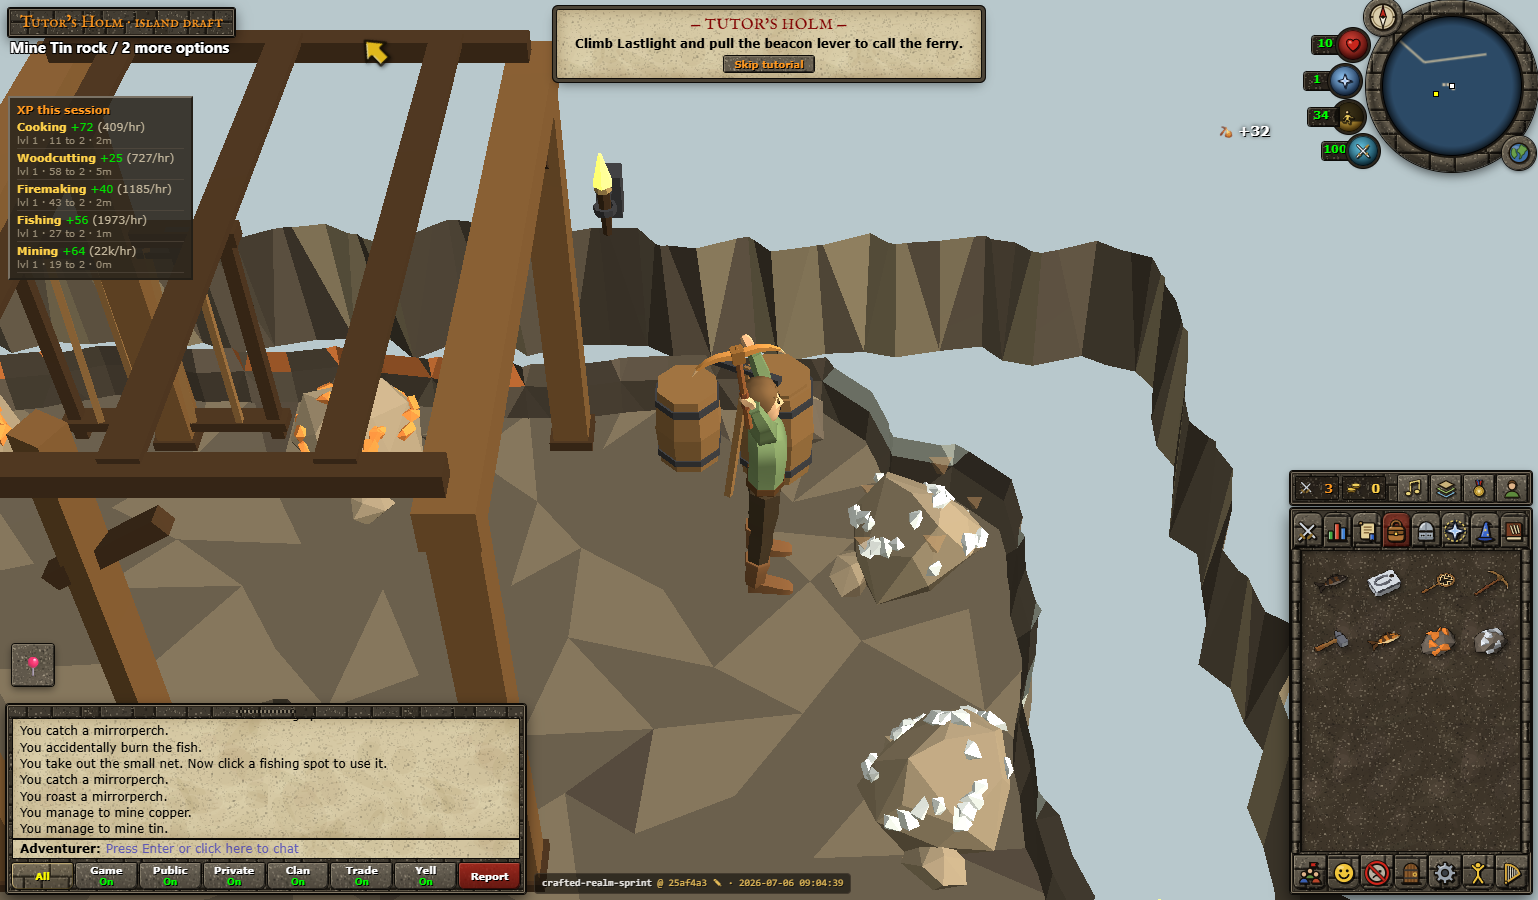
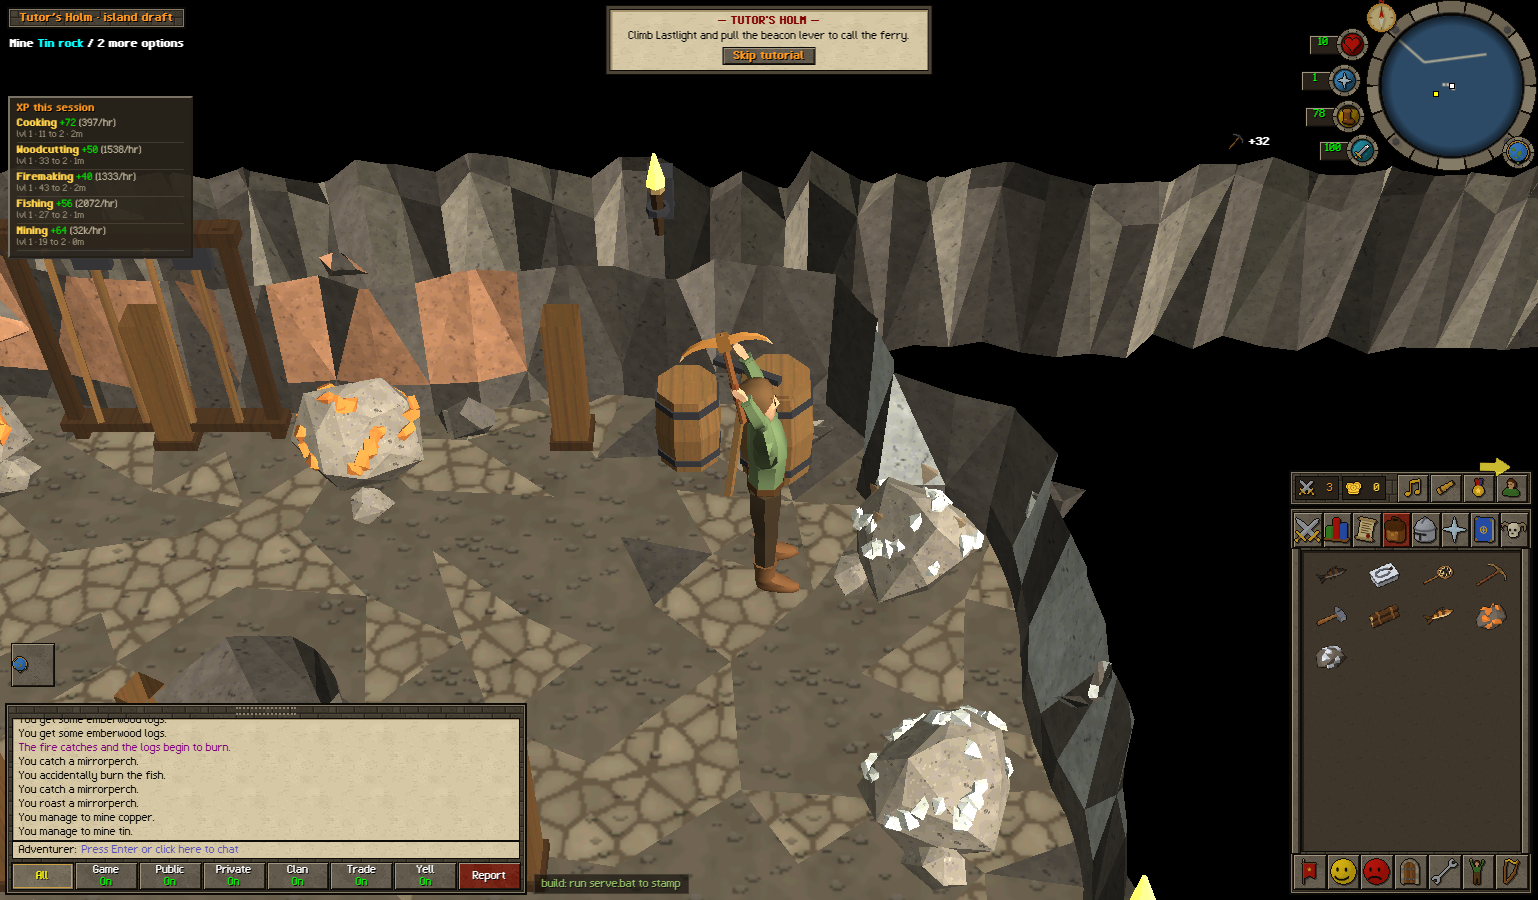
Holm v2 land, phase 6 (part 2): the ore workings' east drift is playable - the island cutaway gives a building's shell parts their own materials (the cave's rock cap shared its material with the rubble and stayed drawn over the drift), the cavern clips its timber sets too (lift 1.2), and a click who

diff --git a/tools/qa_holm_island_playthrough.js b/tools/qa_holm_island_playthrough.js
@@ -46,6 +46,13 @@ async function toBeach(p){const r=await p.evaluate(()=>HolmFishing.fireRing());r
 async function toFire(p){const f=await p.evaluate(()=>{const o=scene.getObjectByName('island-campfire');return o?[o.position.x,o.position.z]:null});if(!f)return toBeach(p);
  for(const [dx,dz] of [[1,0],[-1,0],[0,-1],[0,1]]){await L.walkPoint(p,f[0]+dx,f[1]+dz,[]);const q=await pos(p);if(Math.hypot(q[0]-f[0],q[2]-f[1])>.9)return}}
 const spot=p=>p.evaluate(()=>{const s=HolmFishing.nearestSpot(player.position.x,player.position.z);return s?s.name:null});
+// still down in the ore workings (the guide arrow points at the drift ladder): climb it into the Warden's Keep hall
+async function upDrift(p){for(let k=0;k<3&&await p.evaluate(()=>player.position.y<-20);k++){await walkTo(p,'cavern','exit',false,[]);await clickService(p,'Climb-up drift ladder','exit');await waitFor(p,()=>player.position.y>0,null,60000)}}
+// net a fish like a player: when the spot moves on ("The fish have moved on.") or the net comes up empty for a while,
+// click the nearest live ripple again
+async function netFish(p){for(let k=0;k<6&&!await p.evaluate(()=>Player.count('raw_perch')>0);k++){
+  // a ripple takes a plain click while a net is in the pack (the menu's "Net"), or the net's "Use" on it
+  await clickNamed(p,await spot(p));await waitFor(p,()=>Player.count('raw_perch')>0,null,45000)}}
 // ---- the lessons, in the curriculum's order ----
 const DO={
  async study_route(p){await clickKind(p,'arrival_door',['arrivalDoor','arrival']);await waitFor(p,()=>{const r=HolmArrivalQA.saveRecord();return r&&r.doors&&r.doors.arrival},null,40000);
@@ -58,9 +65,9 @@ const DO={
   await talk(p,'wenna');for(const t of ['oak-1','oak-2','oak-3']){if(await p.evaluate(()=>Player.count('logs')>0))break;const c=await clickNamed(p,'island-lesson-survival-'+t);if(!c.error)await waitFor(p,()=>Player.count('logs')>0,null,90000)}},
  // v2 land (2026-09-27): the fire goes on the Fire Beach down in Minnow Hollow, the fish come from the live ripples on the pond
  async light_fire(p){await toBeach(p);await clickInventory(p,'tinderbox');await clickInventory(p,'logs');await waitFor(p,()=>!!scene.getObjectByName('island-campfire'),null,20000);await sleep(1500)},
- async catch_fish(p){await clickInventory(p,'fishing_net');await clickNamed(p,await spot(p));await waitFor(p,()=>Player.count('raw_perch')>0,null,150000)},
+ async catch_fish(p){await netFish(p)},
  async cook_fish(p){for(let k=0;k<8&&await lesson(p)==='cook_fish';k++){
-   if(!await p.evaluate(()=>Player.count('raw_perch')>0)){await clickInventory(p,'fishing_net');await clickNamed(p,await spot(p));await waitFor(p,()=>Player.count('raw_perch')>0,null,150000)}
+   if(!await p.evaluate(()=>Player.count('raw_perch')>0))await netFish(p);
    await toFire(p);
    if(!await p.evaluate(()=>!!scene.getObjectByName('island-campfire'))){for(const t of ['oak-2','oak-3','oak-1']){if(await p.evaluate(()=>Player.count('logs')>0))break;await clickNamed(p,'island-lesson-survival-'+t);await waitFor(p,()=>Player.count('logs')>0,null,90000)}
     await toBeach(p);await clickInventory(p,'tinderbox');await clickInventory(p,'logs');await waitFor(p,()=>!!scene.getObjectByName('island-campfire'),null,20000);await sleep(1500)}
@@ -76,8 +83,9 @@ const DO={
  async smelt_bronze(p){await clickNamed(p,'island-lesson-furnace');await clickButtonText(p,'#dialogue-modal button','Smelt a Bronze bar.');await waitFor(p,()=>Player.count('bronze_bar')>0,null,30000)},
  async forge_dagger(p){await clickNamed(p,'island-lesson-anvil');await clickButtonText(p,'#smith-grid-overlay div[title]','Bronze dagger');await waitFor(p,()=>Player.count('bronze_dagger')>0,null,30000);
   // v2 land: out by the east drift, its ladder coming up through the trapdoor in the Warden's Keep hall
-  await clickService(p,'Climb-up drift ladder','exit');await waitFor(p,()=>player.position.y>0,null,90000)},
- async melee_trial(p){await walkTo(p,'keep','court',true,[]);await talk(p,'corrick');await wield(p,'bronze_dagger');await fight(p,'keep-court','melee_trial')},
+  // the ladder is roped off until the dagger lesson is credited: wait for the game to move on first, as a player reads the chat
+  await waitLesson(p,'forge_dagger',30000);await upDrift(p)},
+ async melee_trial(p){await upDrift(p);await walkTo(p,'keep','court',true,[]);await talk(p,'corrick');await wield(p,'bronze_dagger');await fight(p,'keep-court','melee_trial')},
  async ranged_trial(p){await waitFor(p,()=>Player.count('worn_bow')>0||Player.equip.weapon==='worn_bow',null,15000);await wield(p,'worn_bow');await fight(p,'keep-court','ranged_trial')},
  async open_bank(p){await walkTo(p,'bank','entrance',true,[]);await talk(p,'maud');await clickService(p,'Use bank counter','counter');await waitLesson(p,'open_bank',60000);await p.evaluate(()=>{try{UI.closeModal('bank-modal')}catch(e){}})},
  async magic_trial(p){await walkTo(p,'mage','entrance',true,[]);await talk(p,'ilse');await waitFor(p,()=>Player.count('air_rune')>0,null,15000);await closeDialogue(p);await spellbook(p,'wind_strike');

diff --git a/src/holm_island_extras.js b/src/holm_island_extras.js
@@ -62,6 +62,11 @@ var HolmIslandExtras=(function(){
   lodge:{roof:/^Lodge_(Roof|Chimney)/,upper:/^Lodge_Upper(?!.*Stair)/,clip:/^Lodge_(GroundShell|UpperShell|Glazing)/,lift:.5}};
  // M4.4 buildings follow the brief's naming contract: <Prefix>_Roof / _Upper / _Shell / _UpperShell / _Glazing
  ['Survival','Quarry','Bank','Mage','Haven','Lastlight','Cavern','Mill'].forEach(function(p){CUTAWAY[p.toLowerCase()]={roof:new RegExp('^'+p+'_Roof'),upper:new RegExp('^'+p+'_Upper'),clip:new RegExp('^'+p+'_(Shell|UpperShell|Glazing)'),lift:.5}});
+ // v2 land phase 6: the ore workings' east drift is a 2-wide propped corridor under the rock cap: inside the cavern its
+ // timber sets and lagging are clipped too, a little higher (the walls stand 1.2 over the floor), so the drift reads from
+ // the game camera as the cave does
+ CUTAWAY.cavern={roof:/^Cavern_Roof/,upper:/^Cavern_Upper/,clip:/^Cavern_(Shell|UpperShell|Glazing|Timber)/,lift:1.2};
+ function partName(n,root){for(var q=n;q&&q!==root;q=q.parent)if(/^(Keep|Kitchen|Lodge|Survival|Quarry|Bank|Mage|Haven|Lastlight|Cavern|Mill)_/.test(q.name))return q.name;return ''}
  function need(ok,msg){if(!ok)throw Error('[HolmIslandExtras] '+msg)}
  function HolmV2LandUrl(p){return typeof HolmV2Land!=='undefined'?HolmV2Land.url(p):(typeof HolmIsland!=='undefined'?HolmIsland.asset('/'+p):'/'+p)}
  // the old-school look's textured candidates (trees, prop pack, bridges, buildings), when served
@@ -116,7 +121,9 @@ var HolmIslandExtras=(function(){
  async function load(o){
   var T=o.THREE,scene=o.scene,W=o.WORLD,sample=o.sample,data=o.data,roots=[],mixers=[],grounds=[];CELLS=typeof HolmInstancedCells!=='undefined';
   function prepare(root){root.traverse(function(n){if(!n.isMesh)return;n.castShadow=true;n.receiveShadow=true;linearMaps(T,n);
-   n.userData.islandGround=true;W.grounds.push(n);W.clickables.push(n);grounds.push(n)})}
+   n.userData.islandGround=true;W.grounds.push(n);W.clickables.push(n);grounds.push(n);
+   // floors, decks, treads and landings take a click as a walk order (game4_ui pick: upward faces only)
+   var pn=partName(n,root);if(/Floor|Deck|Tread|Landing|Stair|Step|Boards|Flags|Pier|Walk|Plank/i.test(pn||n.name)&&!/Roof|Shell|Wall/i.test(pn||n.name))n.userData.islandFloor=true})}
   function place(root,x,y,z,yaw){var g=new T.Group();g.position.set(x,y,z);g.rotation.y=yaw||0;g.add(root);scene.add(g);roots.push(g);prepare(root);return g}
   // ---- buildings, each bound to the graph measured from its exact bytes ----
   var models={},services=[],clipPlane=new T.Plane(new T.Vector3(0,-1,0),0);
@@ -137,6 +144,11 @@ var HolmIslandExtras=(function(){
      if(/DoorOpenClose$/.test(c.name)){a.setLoop(T.LoopOnce,1);a.clampWhenFinished=true;a.play();a.time=c.duration;a.paused=true}
      else if(!/^Door/.test(c.name))a.play()});mx.update(0);mixers.push(mx)}
    gltf.scene.parent.updateMatrixWorld(true);   // placed group first, so service boxes are in world space
+   // the cutaway clips a building's shell parts by material: a material the shell shares with parts that stay whole (the
+   // cave's rock with its rubble, a textured wall with a trim) would be clipped or not by whichever part came last, so the
+   // shell parts get their own copies (v2 land phase 6: the cavern's rock cap stayed drawn over the east drift)
+   if(CUTAWAY[b.id]){var own=new Map();gltf.scene.traverse(function(n){if(!n.isMesh||!CUTAWAY[b.id].clip.test(partName(n,gltf.scene)))return;
+    var cp=function(m){if(!m)return m;if(!own.has(m))own.set(m,m.clone());return own.get(m)};n.material=Array.isArray(n.material)?n.material.map(cp):cp(n.material)})}
    (SERVICES[b.id]||[]).forEach(function(s){
     var local=s.node||(b.graph.targets.filter(function(t){return t.id===s.target})[0]||{}).nodeId;need(local,b.id+' service '+s.label+' has no stance');
     var info={building:b.id,target:s.target,node:'b:'+b.id+':'+local,call:s.call,label:s.label,option:s.option,name:s.name,examine:s.examine,say:s.say},box=new T.Box3();   // option/name/examine: its old-school menu row (osrs_menu_world.js)
@@ -203,7 +215,7 @@ var HolmIslandExtras=(function(){
    cutFor=inside;if(!inside||!CUTAWAY[inside])return;
    var r=CUTAWAY[inside],M=models[inside],localY=pose.y-M.placement.y;clipPlane.constant=pose.y+r.lift;
    if(typeof renderer!=='undefined'&&renderer)renderer.localClippingEnabled=true;
-   M.scene.traverse(function(n){if(!n.isMesh)return;var name='';for(var q=n;q&&q!==M.scene;q=q.parent)if(/^(Keep|Kitchen|Lodge|Survival|Quarry|Bank|Mage|Haven|Lastlight|Cavern|Mill)_/.test(q.name)){name=q.name;break}
+   M.scene.traverse(function(n){if(!n.isMesh)return;var name=partName(n,M.scene);
     n.visible=!r.roof.test(name);
     if(r.upper.test(name)){if(!n.geometry.boundingBox)n.geometry.computeBoundingBox();n.visible=n.geometry.boundingBox.min.y<=localY+.45}
     [].concat(n.material).forEach(function(mm){if(mm)mm.clippingPlanes=r.clip.test(name)?[clipPlane]:[]})});

diff --git a/index.html b/index.html
@@ -939,7 +939,7 @@
 <script src="src/audio_hearthside.js?v=1"></script>
 <script src="src/audio_minstrel.js?v=1"></script>
 <script src="src/osrs_menu.js?v=2"></script><!-- the one old-school menu model (right click, hover text, use-mode) -->
-<script src="src/game4_ui.js?v=he7b82353"></script>
+<script src="src/game4_ui.js?v=he1393bab"></script>
 <script src="src/osrs_menu_world.js?v=2"></script>
 <script src="src/ui_osrs.js?v=1"></script>
 <script src="src/ui_prayer_magic.js?v=4"></script>
@@ -1052,7 +1052,7 @@
 <script src="src/holm_arrival_trail.js?v=2wf"></script>
 <script src="src/holm_arrival_water.js?v=hdeca526f"></script>
 <script src="src/holm_arrival_porch_target.js?v=1"></script>
-<script src="src/holm_v2_land.js?v=hd6e4751b"></script><script src="src/holm_island_paths_data.js?v=hfcbfbdc7"></script><script src="src/holm_island_nav.js?v=hfc1a6a45"></script><script src="src/holm_island_lessons.js?v=8s58os1"></script><script src="src/holm_fishing.js?v=hc03f7dbf"></script><script src="src/holm_instanced_cells.js?v=hfba1ea67"></script><script src="src/holm_island_props.js?v=h7019d720"></script><script src="src/holm_mill.js?v=he37fbe70"></script><script src="src/holm_island_gates.js?v=3os2"></script><script src="src/holm_island_trials.js?v=3cfx1cb2"></script><script src="src/holm_proving_ground.js?v=1b"></script><script src="src/holm_island_tutors.js?v=hae87a40d"></script><script src="src/holm_island_talk.js?v=h68340add"></script><script src="src/holm_kit.js?v=1k8k9m_eq2"></script><script src="src/holm_island_player.js?v=5k8k9m_cfx1c31em1eq2"></script><script src="src/holm_island_fx.js?v=3m"></script><script src="src/holm_island_guide.js?v=h9ddec7d5"></script><script src="src/holm_kit_creator.js?v=2k8k9m"></script><script src="src/holm_island_extras.js?v=hc372f3c5"></script><script src="src/holm_guide_cellar.js?v=2"></script><script src="src/holm_arrival_qa.js?v=h0fcbcc6a"></script>
+<script src="src/holm_v2_land.js?v=hd6e4751b"></script><script src="src/holm_island_paths_data.js?v=hfcbfbdc7"></script><script src="src/holm_island_nav.js?v=hfc1a6a45"></script><script src="src/holm_island_lessons.js?v=8s58os1"></script><script src="src/holm_fishing.js?v=hc03f7dbf"></script><script src="src/holm_instanced_cells.js?v=hfba1ea67"></script><script src="src/holm_island_props.js?v=h7019d720"></script><script src="src/holm_mill.js?v=he37fbe70"></script><script src="src/holm_island_gates.js?v=3os2"></script><script src="src/holm_island_trials.js?v=3cfx1cb2"></script><script src="src/holm_proving_ground.js?v=1b"></script><script src="src/holm_island_tutors.js?v=hae87a40d"></script><script src="src/holm_island_talk.js?v=h68340add"></script><script src="src/holm_kit.js?v=1k8k9m_eq2"></script><script src="src/holm_island_player.js?v=5k8k9m_cfx1c31em1eq2"></script><script src="src/holm_island_fx.js?v=3m"></script><script src="src/holm_island_guide.js?v=h9ddec7d5"></script><script src="src/holm_kit_creator.js?v=2k8k9m"></script><script src="src/holm_island_extras.js?v=h85a46e85"></script><script src="src/holm_guide_cellar.js?v=2"></script><script src="src/holm_arrival_qa.js?v=h0fcbcc6a"></script>
 <script src="src/holm_v3_terrain.js?v=2"></script>
 <script src="src/holm_v3_render.js?v=8"></script>
 <script src="src/holm_tile_house.js?v=8"></script>

diff --git a/src/game4_ui.js b/src/game4_ui.js
@@ -590,14 +590,20 @@ function pickAll(e, firstOnly){
   // island service hit boxes are invisible stand-ins for small stations; when the ray passes through one and then
   // meets a real, visible station just behind it (the flour bin's box used to swallow the bucket rack, owner
   // play-test 2026-09-25), the real station is what the player pointed at. Floors behind a box keep the box.
-  let proxyHit=null, top=null;
+  let proxyHit=null, top=null, floorFallback=null;
   const list=[];
   for(const h of hits){
     if((typeof HolmArrivalQA!=='undefined'&&HolmArrivalQA.active())||(typeof HolmV3Preview!=='undefined'&&HolmV3Preview.active())){
       let visible=true;for(let parent=h.object;parent;parent=parent.parent)if(!parent.visible){visible=false;break}
       if(!visible)continue;
+      // a building part cut away above the player (the island cutaway clips its shell by material) is not there to click
+      if([].concat(h.object.material).some(m=>m&&m.clippingPlanes&&m.clippingPlanes.some(pl=>pl.distanceToPoint(h.point)<0)))continue;
     }
     let o=h.object;
+    // Tutor's Holm (v2 land, 2026-09-27): the nearest upward face of a Blender building's floor, deck or stair (islandFloor)
+    // is kept as a fallback: a click that meets nothing else (the ore workings have no island terrain underneath for the
+    // ray to fall through to) walks there; everywhere else the ray still passes floors to the station or ground behind
+    if(!floorFallback&&o.userData&&o.userData.islandFloor&&h.face&&h.face.normal.clone().transformDirection(o.matrixWorld).y>.5)floorFallback={obj:o,point:h.point};
     while(o && !o.userData.kind && !isGroundName(o.name)) o=o.parent;
     if(o && (o.userData.kind || isGroundName(o.name))){
       const objectPlane=o.userData&&o.userData.plane;
@@ -619,6 +625,7 @@ function pickAll(e, firstOnly){
     }
   }
   if(!top&&proxyHit) top={obj:proxyHit.obj, point:proxyHit.point};
+  if(!top&&floorFallback) top=floorFallback;
   return {top, list};
 }
 function pick(e){ return pickAll(e, true).top; }   // the first entity only (stops at it, as pick always did)
@@ -635,7 +642,7 @@ function hoverPrimaryLabel(hit,hasWalkGround){
     try{ const p=Interact.entriesFor(hit,null).filter(function(en){return en.primary;}); if(p.length) return p[0].html; }catch(e){}
   }
   if(u.label)return u.label;
-  return isGroundName(hit.obj.name)?'Walk here':null;
+  return (isGroundName(hit.obj.name)||u.islandFloor)?'Walk here':null;
 }
 // An inspect-only model can hide a wall or exterior ground tile behind it from
 // the camera. Walking to that background pick makes a harmless scenery click
@@ -669,7 +676,7 @@ canvasEl.addEventListener('mousemove', e=>{
     else UI.action(null);
     canvasEl.style.cursor = (top && top.band==='entity') ? 'pointer' : 'crosshair';
     if(inspectGround)showHoverTile(inspectGround);
-    else if(hit && hit.obj && isGroundName(hit.obj.name) && hit.point) showHoverTile(hit.point);
+    else if(hit && hit.obj && (isGroundName(hit.obj.name)||hit.obj.userData.islandFloor) && hit.point) showHoverTile(hit.point);
     else hideHoverTile();
   }
 });
